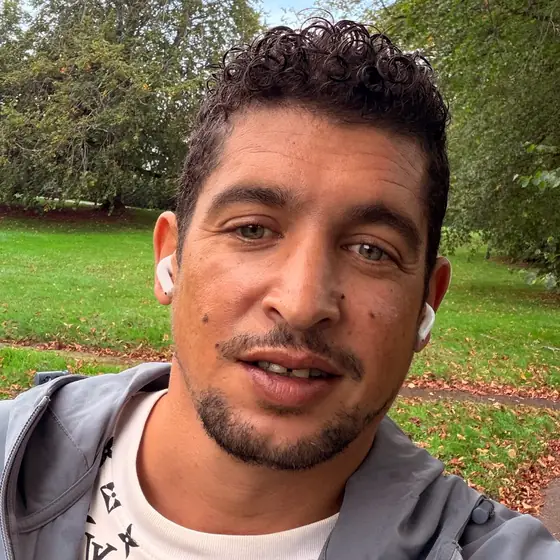
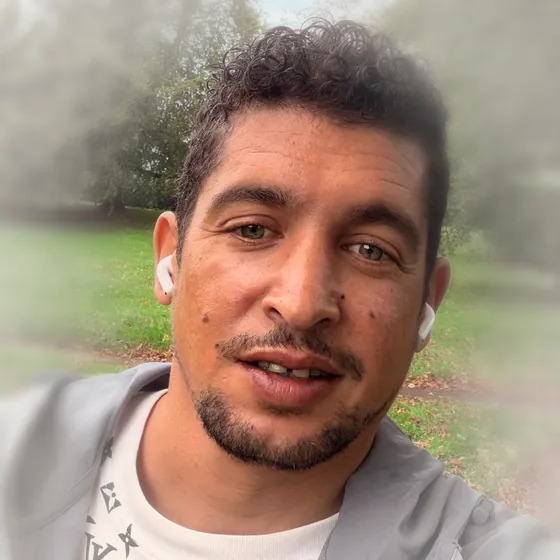
Soften Simon's portrait so it sits in the cream page.
The park background is muted and fades to cream at the rim, the teal ring becomes a soft navy shadow with a hairline, and on phones the portrait sits beside the heading instead of under it.

diff --git a/site/styles.css b/site/styles.css
@@ -599,17 +599,25 @@ strong { font-weight: 600; }
 }
 
 /* ---------- 04 Who you'll get ---------- */
-.portrait {
-  width: 156px;
-  margin: 28px 0 4px;
+.simon-head {
+  display: grid;
+  grid-template-columns: auto minmax(0, 1fr);
+  column-gap: 18px;
+  align-items: center;
 }
+.simon-head .idx, .simon-head .lead { grid-column: 1 / -1; }
+.simon-head .portrait { grid-column: 1; grid-row: 2; }
+.simon-head h2 { grid-column: 2; grid-row: 2; }
+.portrait { width: 96px; }
 .portrait img {
   width: 100%;
   height: auto;
   aspect-ratio: 1;
   object-fit: cover;
   border-radius: 50%;
-  box-shadow: 0 0 0 4px rgba(62, 198, 207, 0.22);
+  box-shadow:
+    0 0 0 1px var(--line-2),
+    0 14px 32px -14px rgba(18, 32, 40, 0.38);
 }
 .promises {
   display: grid;
@@ -979,7 +987,6 @@ strong { font-weight: 600; }
   .hours { grid-template-columns: 8rem 1fr; align-items: baseline; }
 
   .simon-head {
-    display: grid;
     grid-template-columns: 200px minmax(0, 1fr);
     column-gap: 40px;
     align-items: start;
